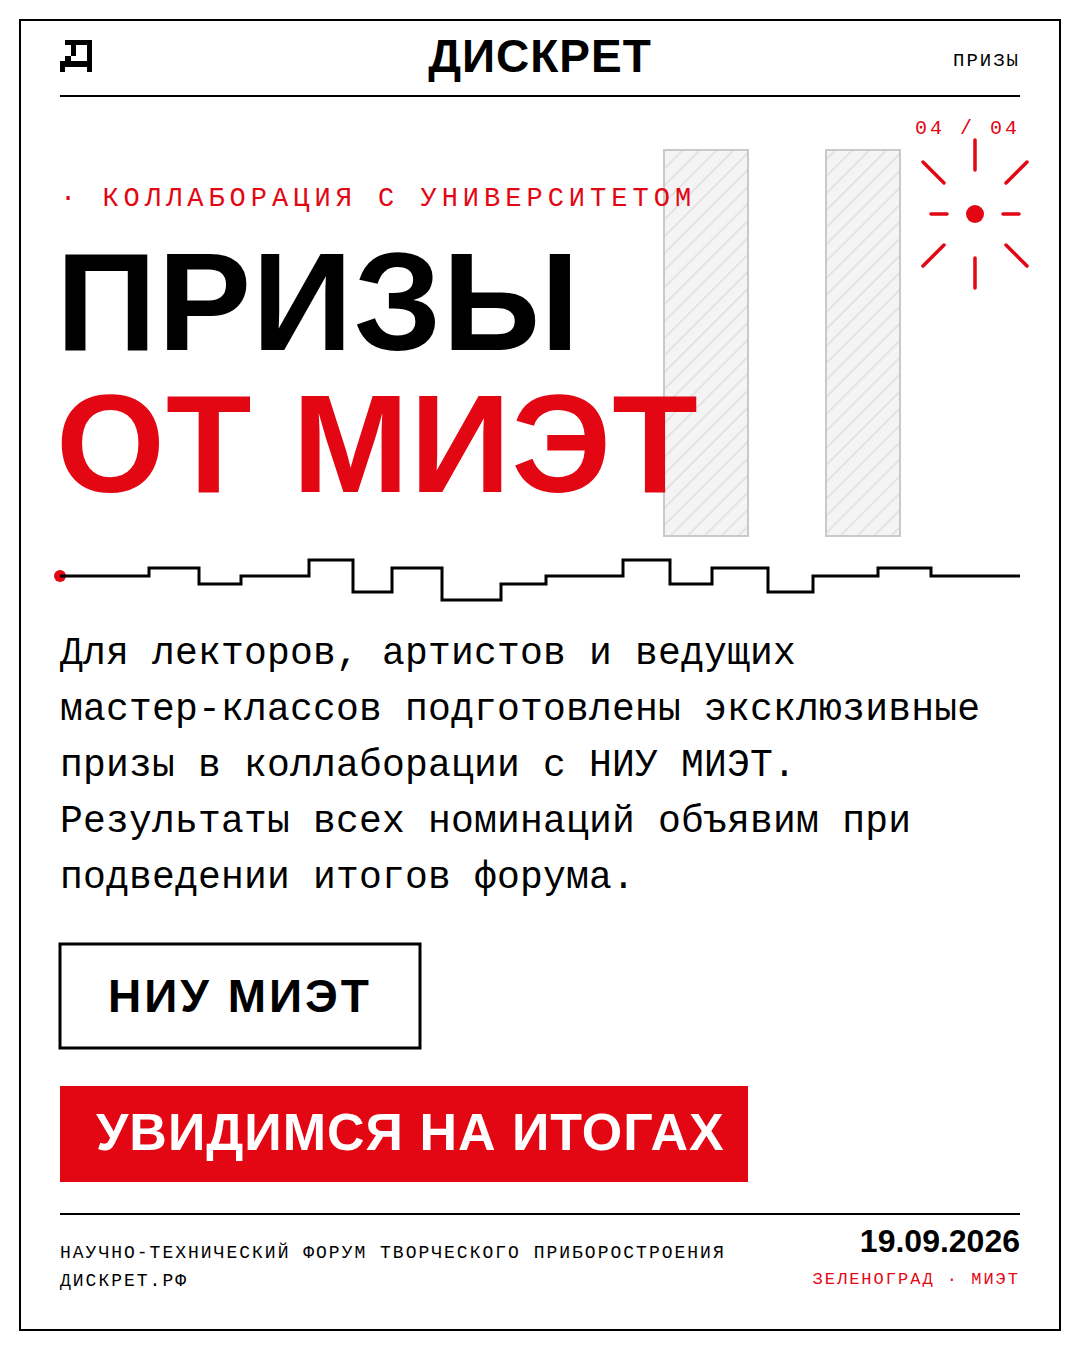
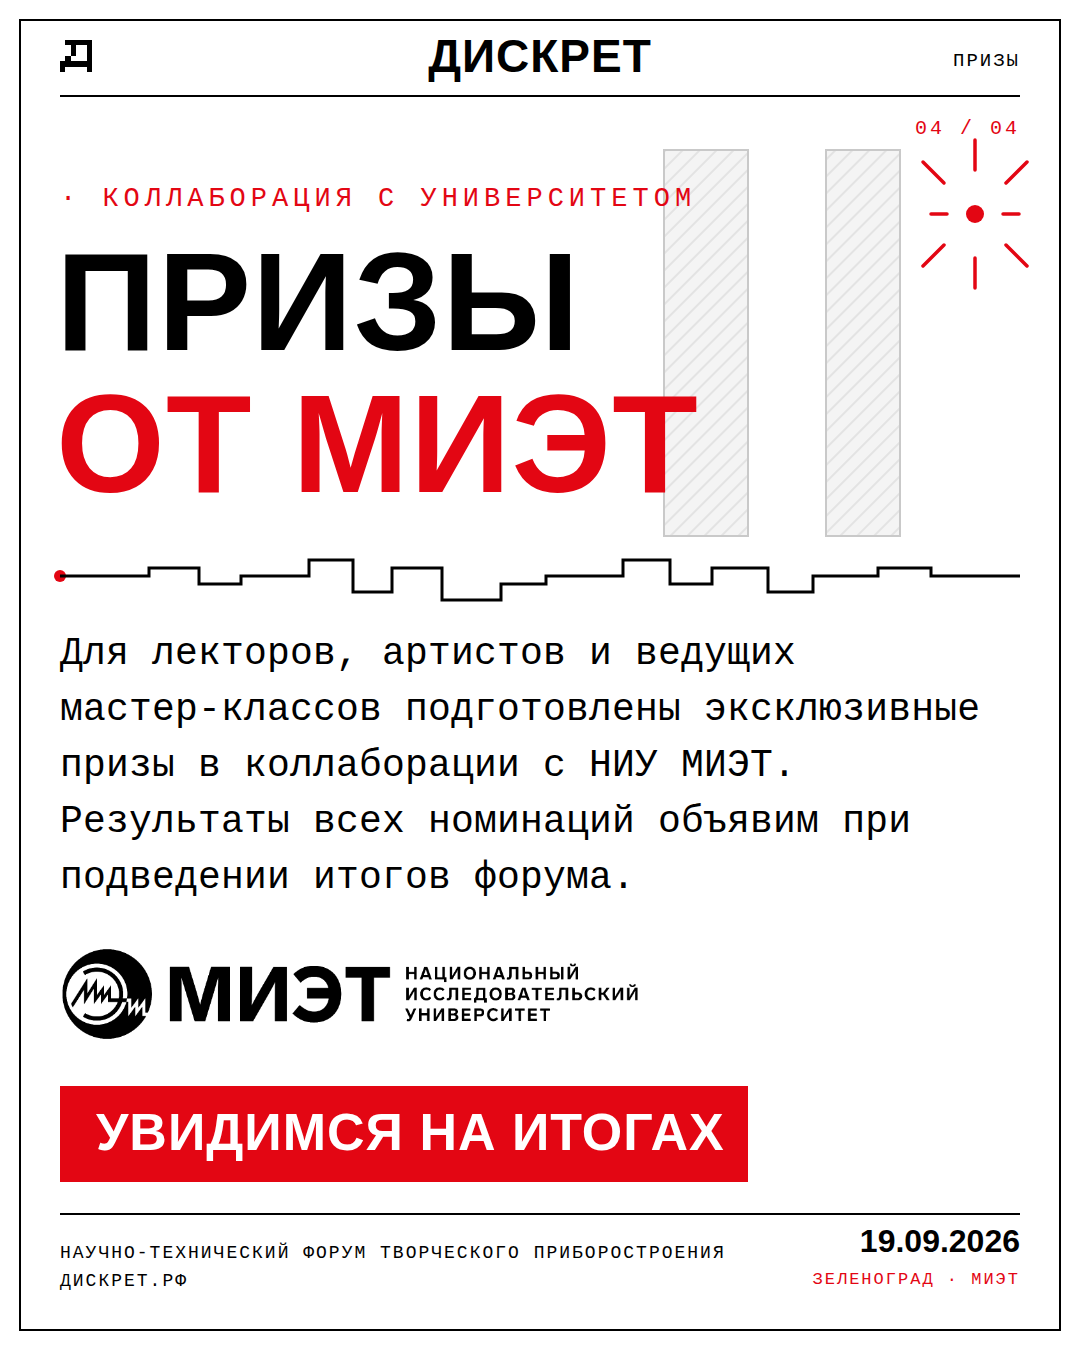
Официальный логотип МИЭТ на призовой карточке 04
Claude-Session: https://claude.ai/code/session_01J7cakNvVwscKzgnd8yf78u

Changed region(s): [[0.0306, 0.6844, 0.5806, 0.7778]]

diff --git a/branding/press/content-plan.md b/branding/press/content-plan.md
@@ -780,9 +780,8 @@ flat.audio/e/2470 — но лучше не откладывать. До встр
 📍 Зеленоград · МИЭТ · 🤖 @dskrt_bot · 🌐 дискрет.рф
 
 > **Служебное:** Резонит добавлен в партнёры приложения как «призовой
-> партнёр» (lg_rezonit). На карточке 04 вместо логотипа МИЭТ —
-> типографский знак «НИУ МИЭТ»: файл логотипа не прислан, miet.ru
-> из контейнера недоступен. Пришлют лого — заменить.
+> партнёр» (lg_rezonit). На карточке 04 — официальный логотип НИУ МИЭТ
+> (из фирменного архива, синий → монохром, renders/prize/mono/miet.png).
 
 ---
 
